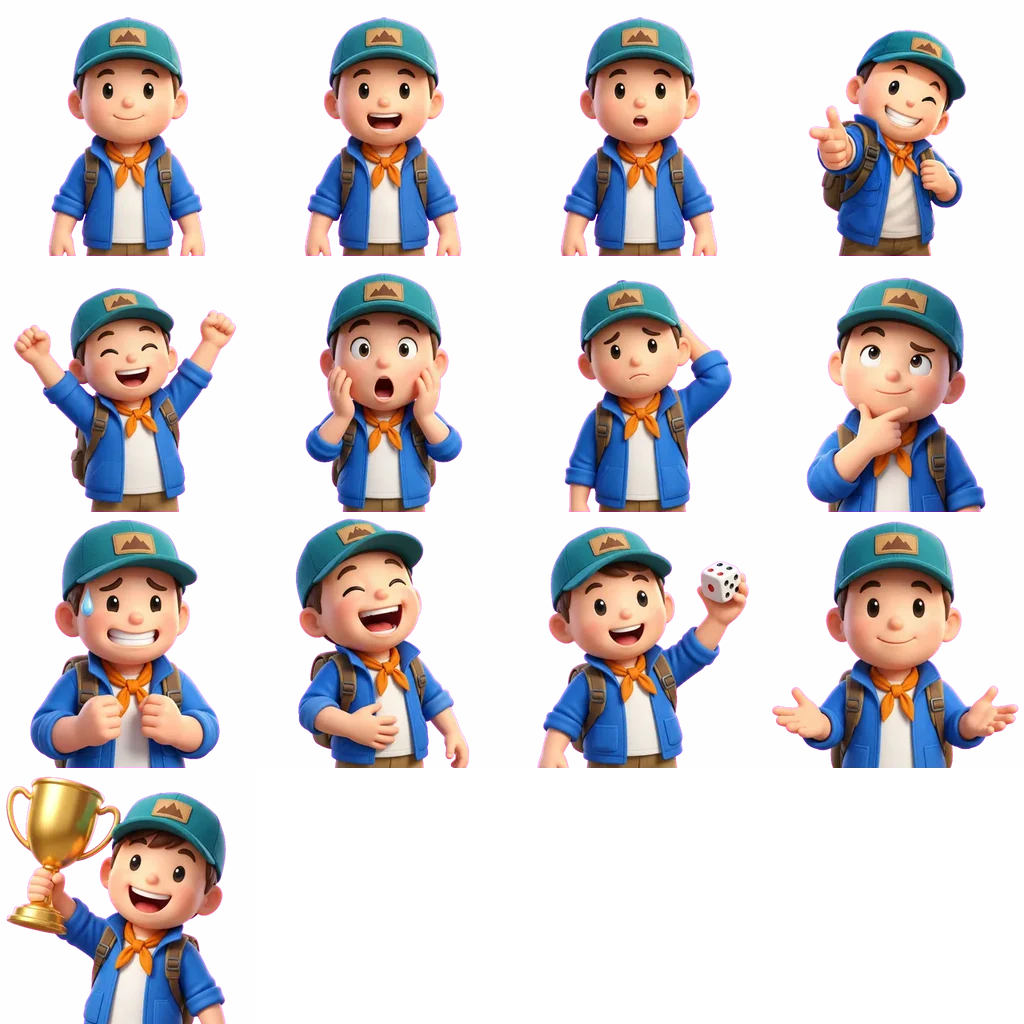
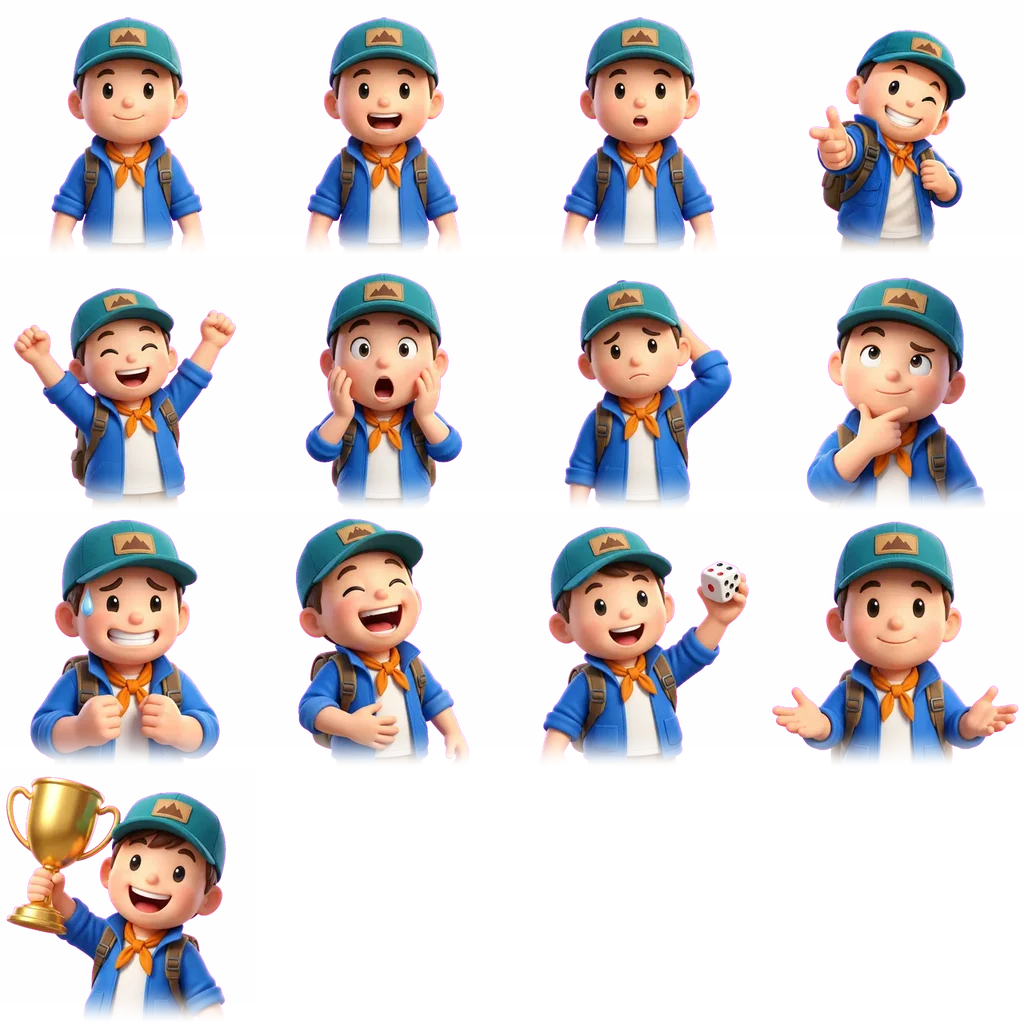
ui: dealer twice the size, over the cards and under the event animations; cards narrower on the right
Owner review 2026-10-23: the dealer was hidden behind cards opening beside him.
- Dealer 10u (was 5u); sprite z 4 above the prompt card (2) and event card (3), below toasts,
  stamps and the rolled total (5); the effects layer and money stage stay above the stage.
- Prompt card 30 % narrower, event card 20 % narrower, both against the stage's right edge so
  no card text is under him; titles and list details wrap instead of an ellipsis.
- Bubble opens under him in the free left strip instead of over the card's title.
- pack-atlas.py fades the sprites' cut-off legs (baked, no runtime cost).

Claude-Session: https://claude.ai/code/session_01MFt13innfkDrSn1TMCBrcB

diff --git a/src/styles/stage.css b/src/styles/stage.css
@@ -205,7 +205,11 @@ body > .dice-fly { position: fixed; }
 .st-prompt {
   /* May shrink (the card body then scrolls) so a tall card never spills off the stage. */
   flex: 0 1 auto;
-  width: min(calc(var(--u) * 19.5), 100%);
+  /* 30 % narrower than the first 19.5u and against the stage's right edge, so the card's left edge
+     (8.65u from the stage's left) clears the dealer standing on the left (0.2u + 10u sprite, the
+     figure ends ~8.2–8.8u): no text on a card is ever under him (owner review 2026-10-23). */
+  width: min(calc(var(--u) * 13.65), 100%);
+  align-self: flex-end;
   max-height: 100%;
   min-height: 0;
   display: flex;
@@ -242,9 +246,8 @@ body > .dice-fly { position: fixed; }
   font-size: 1.55em;
   line-height: 1.15;
   color: var(--ink);
-  white-space: nowrap;
-  overflow: hidden;
-  text-overflow: ellipsis;
+  /* Wraps on the narrower cards (2026-10-23) rather than ending in an ellipsis. */
+  overflow-wrap: anywhere;
 }
 .pc-body {
   display: flex;
@@ -518,9 +521,8 @@ button.pick-row:active { transform: scale(0.985); background: #FFF6DC; }
 button.pick-row.is-pressed { transform: scale(0.985); background: #FFF6DC; transition-duration: var(--t-press); }
 .pick-ico { width: calc(var(--u) * 1.6); height: calc(var(--u) * 1.6); min-width: 26px; min-height: 26px; flex: none; margin-left: calc(var(--u) * 0.2); }
 .pick-name { font-family: var(--font-display); font-size: 1.1em; white-space: nowrap; flex: none; }
-.pick-detail { margin-left: auto; font-weight: 800; color: var(--ink-3); font-size: 0.9em; white-space: nowrap; }
+.pick-detail { margin-left: auto; font-weight: 800; color: var(--ink-3); font-size: 0.9em; text-align: right; line-height: 1.15; }
 .debt-row .pbtn { flex: none; min-width: max(64px, calc(var(--u) * 3.6)); min-height: 48px; padding-block: 4px; font-size: 1em !important; }
-.debt-row .pick-detail { white-space: normal; text-align: right; line-height: 1.15; }
 .debt-row.is-best { background: #FFF6DC; }
 .debt-meter { display: flex; flex-direction: column; gap: calc(var(--u) * 0.15); }
 .dm-bar { height: max(8px, calc(var(--u) * 0.45)); border-radius: var(--r-pill); background: #FDE8E7; overflow: hidden; }
@@ -623,9 +625,11 @@ button.pick-row.is-pressed { transform: scale(0.985); background: #FFF6DC; trans
   display: grid;
   place-items: center;
   pointer-events: none;
-  z-index: 4;
 }
-.st-toasts > * { grid-area: 1 / 1; }
+/* No z-index on the layer itself, so its children stack with the dealer (below): an event card (z 3)
+   under him, the toasts, stamps and the rolled total (the event animations, z 5) over him. */
+.st-toasts > * { grid-area: 1 / 1; z-index: 5; }
+.st-toasts > .ev-card { z-index: 3; }
 .st-toast {
   display: inline-flex;
   align-items: center;
@@ -670,8 +674,11 @@ button.pick-row.is-pressed { transform: scale(0.985); background: #FFF6DC; trans
 .st-stamp.tone-good { color: var(--success); }
 
 .ev-card {
-  width: min(calc(var(--u) * 14), 76%);
+  /* 20 % narrower and against the right edge, clear of the dealer like the prompt card (above). */
+  width: min(calc(var(--u) * 11.2), 76%);
   height: min(calc(var(--u) * 16), 88%);
+  justify-self: end;
+  margin-right: calc(var(--u) * 0.5);
   perspective: calc(var(--u) * 40);
   pointer-events: auto;
 }
@@ -716,7 +723,7 @@ button.pick-row.is-pressed { transform: scale(0.985); background: #FFF6DC; trans
 .st-pop {
   position: absolute;
   inset: 0;
-  z-index: 6;
+  z-index: 7;
   display: none;
   place-items: center;
   border-radius: calc(var(--u) * 0.6);
@@ -756,25 +763,31 @@ button.pick-row.is-pressed { transform: scale(0.985); background: #FFF6DC; trans
   left: calc(var(--u) * 0.2);
   /* Below the turn banner and the round line, so the bubble never covers them. */
   top: calc(var(--u) * 3.7);
-  width: max(64px, calc(var(--u) * 5));
+  /* Twice the first size (owner review 2026-10-23). */
+  width: max(128px, calc(var(--u) * 10));
   pointer-events: none;
 }
-/* No stacking context on .dealer: the sprite sits under prompt cards (z 2) and the bubble above
-   cards and reveals (.st-toasts z 4), so a card is never hidden and the line stays readable. */
+/* No stacking context on .dealer, so the sprite and the bubble stack with the stage's layers: the
+   sprite over the prompt card (z 2), the skill result line (z 3) and an event card (z 3), so a card
+   opening beside him never hides him (owner review 2026-10-23); under the toasts, stamps and the
+   rolled total (z 5) and every full-screen effect (.fx-layer, the money stage), so he never covers
+   an event animation. The bubble stays above them all (z 6) so the line stays readable, and opens
+   under him, in the stage's free left strip, so it never covers a card's text either. */
 /* No CSS filter: the talking frames swap the image ~8×/s and a drop-shadow re-rasterised it each time. */
 /* The body takes (dealer/acting.ts) move this layer from the feet: transform only, the stage never repaints. */
-.dealer-body { position: relative; z-index: 1; transform-origin: 50% 100%; will-change: transform; }
+.dealer-body { position: relative; z-index: 4; transform-origin: 50% 100%; will-change: transform; }
 /* One atlas, 4 × 4 cells (Dealer.ts sets the image, relative like every asset, and the cell). */
 .dealer-img { display: block; width: 100%; aspect-ratio: 1; background: no-repeat 0 0 / 400% 400%; }
 /* Under a money cut-in (full-screen dim) the dealer is not visible: drop his layers meanwhile. */
 .is-money-live .dealer { display: none; }
 .dealer-bubble {
   position: absolute;
-  z-index: 5;
-  left: 86%;
-  top: 6%;
+  z-index: 6;
+  /* Under the sprite (its legs fade out from ~84 %), left of the cards' edge at 8.65u. */
+  left: calc(var(--u) * 0.6);
+  top: 90%;
   width: max-content;
-  max-width: calc(var(--u) * 11.5);
+  max-width: calc(var(--u) * 7.8);
   padding: calc(var(--u) * 0.35) calc(var(--u) * 0.6);
   border-radius: calc(var(--u) * 0.7);
   background: #FFFFFF;
@@ -784,7 +797,7 @@ button.pick-row.is-pressed { transform: scale(0.985); background: #FFF6DC; trans
   line-height: 1.35;
   box-shadow: var(--sh-2);
   opacity: 0;
-  transform-origin: 0 30%;
+  transform-origin: calc(var(--u) * 3.6) 0;
   transition: opacity var(--t-fast) linear;
   /* Its own small layer for good: popping in and fading out never repaint the stage under it
      (promoted only while animating, it repainted the stage at both ends; gate B, PERFORMANCE.md). */
@@ -793,11 +806,11 @@ button.pick-row.is-pressed { transform: scale(0.985); background: #FFF6DC; trans
 .dealer-bubble::before {
   content: '';
   position: absolute;
-  left: calc(var(--u) * -0.35);
-  top: calc(var(--u) * 0.55);
+  left: calc(var(--u) * 3.4);
+  top: calc(var(--u) * -0.35);
   border: calc(var(--u) * 0.22) solid transparent;
-  border-right-color: #FFFFFF;
-  border-left-width: calc(var(--u) * 0.15);
+  border-bottom-color: #FFFFFF;
+  border-top-width: calc(var(--u) * 0.15);
 }
 .dealer-bubble.is-in { opacity: 1; }
 .dealer-bubble.is-out { opacity: 0; }

diff --git a/scripts/dealer/pack-atlas.py b/scripts/dealer/pack-atlas.py
@@ -4,6 +4,9 @@ The 13 sprite sources (scripts/dealer/sprites/<name>.webp, 320 x 320, written by
 become public/dealer/atlas.webp: a 4 x 4 grid of 256 px cells, 1024 x 1024, in the order of
 DEALER_SPRITES (src/ui/dealer/lines.ts; cell i = column i % 4, row i // 4). The dealer shows at most
 ~280 device px wide (stage --u x 5 at DPR 2), so 256 px cells keep it sharp; one file instead of 13.
+Since 2026-10-23 the dealer shows twice that size (stage --u x 10), over the prompt cards: the
+sources end in a hard cut at the knees, so the bottom FADE of every cell fades out instead (baked
+here, so the app pays nothing for it).
 
     python scripts/dealer/pack-atlas.py
 """
@@ -17,10 +20,26 @@ OUT = os.path.join(ROOT, 'public', 'dealer', 'atlas.webp')
 NAMES = ['idle', 'talk-a', 'talk-b', 'point', 'cheer', 'surprised', 'sad', 'thinking', 'nervous', 'laugh', 'dice', 'present', 'trophy']
 CELL = 256
 COLS = 4
+# The bottom share of each cell whose alpha fades to 0 (smoothstep), so the cut-off legs melt away.
+FADE = 0.16
+
+
+def fade_bottom(im):
+    a = im.getchannel('A')
+    start = round(CELL * (1 - FADE))
+    px = a.load()
+    for y in range(start, CELL):
+        u = (y - start + 0.5) / (CELL - start)
+        k = 1 - u * u * (3 - 2 * u)
+        for x in range(CELL):
+            px[x, y] = round(px[x, y] * k)
+    im.putalpha(a)
+    return im
+
 
 sheet = Image.new('RGBA', (CELL * COLS, CELL * COLS), (0, 0, 0, 0))
 for i, name in enumerate(NAMES):
     im = Image.open(os.path.join(SRC, f'{name}.webp')).convert('RGBA').resize((CELL, CELL), Image.LANCZOS)
-    sheet.paste(im, ((i % COLS) * CELL, (i // COLS) * CELL))
+    sheet.paste(fade_bottom(im), ((i % COLS) * CELL, (i // COLS) * CELL))
 sheet.save(OUT, 'WEBP', quality=88, alpha_quality=90, method=6)
 print(f'{OUT}: {sheet.size[0]}x{sheet.size[1]}, {os.path.getsize(OUT) / 1024:.1f} KB')

diff --git a/docs/DESIGN.md b/docs/DESIGN.md
@@ -83,6 +83,13 @@ surface: `src/ui/orientation.ts` (`orientationFor(players)` → `mode`, `seat()`
   at N: N→S, W→E, S→N, E→W; at W: W→S, S→E, E→N, N→W.
 * **Stage** stays at 0° for every turn (no rotation animation); prompt cards, the turn banner,
   toasts, the info popover, close-up cards and the dealer all live on it, so they face S.
+* **Dealer and cards on the Stage (owner review 2026-10-23).** The dealer stands at the stage's
+  left at twice the first size (10u), his bubble opening under him in the left strip. Prompt cards
+  (13.65u, 30 % narrower) and event cards (11.2u, 20 % narrower) sit against the right edge, so no
+  card text is ever under him or his bubble. Stacking: prompt card (z 2) < event card (z 3) <
+  dealer (z 4) < toasts, stamps, the rolled total (z 5) < bubble (z 6) < info popover (z 7); the
+  effects layer and the money stage sit above the whole stage, so he never covers an event
+  animation. The sprites' cut-off legs fade out (baked in `scripts/dealer/pack-atlas.py`).
 * **Panels** keep their pinwheel boxes (layout.ts) but are all upright (0°): E / N / W lay out
   like S (narrow and tall), so 800×450 needs no extra room.
 * **Board.** The top row would print upside-down for the reader at S, so it is printed upright

diff --git a/docs/research/13-image-budget.md b/docs/research/13-image-budget.md
@@ -50,5 +50,8 @@
   그래서 1024 × 512, 4 × 2 칸에 256 px(20 % 축소, 빈 공간 25 %). 디코드 메모리 2.46 → 2.10 MB(판매 컷인 동안만).
   판매 컷인 주인공은 짧은 변의 절반쯤으로 크게 보여, 예전보다 조금 더 확대된다(원본 320 → 256).
 - 딜러 아틀라스는 디코드 메모리가 13 × 0.41 = 5.3 → 4.19 MB로 줄었다. 원본 320 px는 `scripts/dealer/sprites/`(앱에 안 들어감).
+- 2026-10-23부터 딜러를 두 배(스테이지 --u × 10)로 그린다. 1600 × 1000 화면에서 304 CSS px, DPR 2면 약 600 기기 px라
+  256 px 칸은 약 2.4배 늘어나 조금 흐리다. 원본도 320 px라 칸만 키워서는 선명해지지 않는다. 더 선명하게 하려면 PC에서
+  스프라이트를 더 크게 다시 뽑고 칸을 512(아틀라스 2048²)로 올려야 한다. 아직 하지 않았다.
 - 다시 만드는 법: 딜러 `python scripts/dealer/pack-atlas.py`, sob `scripts/dealer/bake-sob.py`(sprite-gen 필요), 동전 띠·머니
   `node scripts/fx/bake-money.mjs`(CHROMIUM_PATH), 아이콘 `node scripts/gen-android-icons.mjs --no-play`.
